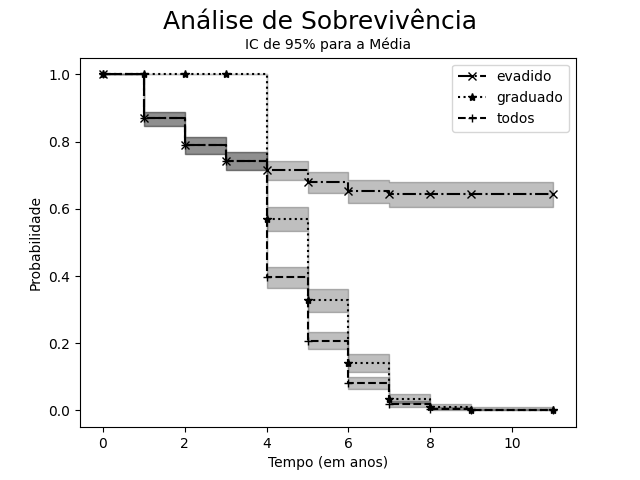
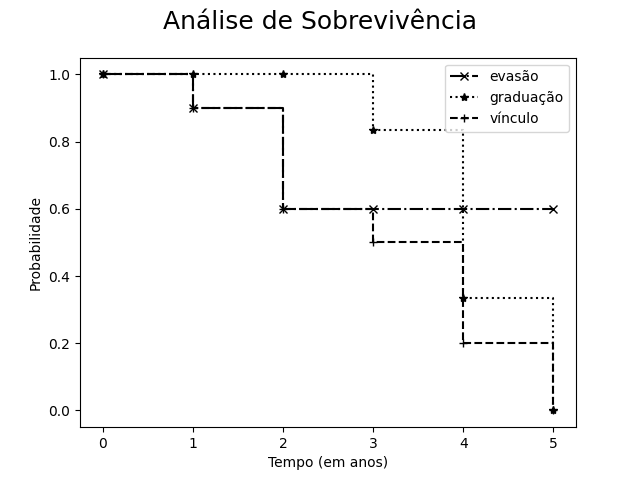
Experimentos

diff --git a/simulation.py b/simulation.py
@@ -18,11 +18,10 @@ def sobrevivencia(time, event_observed, label, title):
         kmf.plot_survival_function(linestyle=linestyles[i], color="black", marker=markers[i], ci_show=False)
         kmf.event_table.to_csv(f"docs/event_table{title}.csv")
 
-
     plt.xlabel('Tempo (em anos)')
     plt.ylabel('Probabilidade')
     plt.suptitle(f"{title}", fontsize=18)
-    plt.title("IC de 95% para a Média", fontsize=10)
+    # plt.title("IC de 95% para a Média", fontsize=10)
     plt.savefig(f"imgs/plot{title}.png")
     plt.show()
     # kmf.plot_cumulative_density(ci_show=False)
@@ -91,13 +90,13 @@ def Simu(quantAlunos, matriz):
             event_evadido.append(0)
 
         # Se ficou Trancado em algum dos estados
-        i = 1
-        while i < len(arr):
-            if arr[i] == arr[i - 1]:  # se estado igual ao estado anterior
-                t += 1
-                tempo_ate_trancado.append(i)
-                break
-            i += 1
+        # i = 1
+        # while i < len(arr):
+        #     if arr[i] == arr[i - 1]:  # se estado igual ao estado anterior
+        #         t += 1
+        #         tempo_ate_trancado.append(i)
+        #         break
+        #     i += 1
 
         # Se ficou Retido em algum dos estados
         count = 0
@@ -108,10 +107,10 @@ def Simu(quantAlunos, matriz):
                 break
             count += 1
 
-    # prob_and_temp("Retido", r, tempo_ate_retido, quantAlunos)
+    prob_and_temp("Retido", r, tempo_ate_retido, quantAlunos)
     # prob_and_temp("Trancado", t, tempo_ate_trancado, quantAlunos)
-    # prob_and_temp("Evadido", e, tempo_ate_evadido, quantAlunos)
-    # prob_and_temp("Graduado", g, tempo_ate_graduado, quantAlunos)
+    prob_and_temp("Evadido", e, tempo_ate_evadido, quantAlunos)
+    prob_and_temp("Graduado", g, tempo_ate_graduado, quantAlunos)
 
     return time, event, event_evadido, event_graduado
 
@@ -191,39 +190,39 @@ quantAlunos = 1000
 
 
 # Simulação Evasão A1
-# time, event, event_evadido, event_graduado = Simu(quantAlunos, 'matrix/matrixPadrao.csv')
-# time20, event_20, event_evadido20, event_graduado20 = Simu(quantAlunos, 'matrix/matrixMenos20EvasaoA1.csv')
-# time40, event_40, event_evadido40, event_graduado40 = Simu(quantAlunos, 'matrix/matrixMenos40EvasaoA1.csv')
-# time60, event_60, event_evadido60, event_graduado60 = Simu(quantAlunos, 'matrix/matrixMenos60EvasaoA1.csv')
-#
-#
-# times = [time, time20, time40, time60]
-# events = [event, event_20, event_40, event_60]
-# labels = ["Padrão", "20% menor", "40% menor", "60% menor"]
-#
-# sobrevivencia(times, events, labels, "Todos: Taxa de Evasão no primeiro ano")
-#
-# events = [event_evadido, event_evadido20, event_evadido40, event_evadido60]
-#
-# sobrevivencia(times, events, labels, "Evadido: Taxa de Evasão no primeiro ano")
-#
-# events = [event_graduado, event_graduado20, event_graduado40, event_graduado60]
-#
-# sobrevivencia(times, events, labels, "Graduado: Taxa de Evasão no primeiro ano")
-#
-#
-# print("logrank")
-# results = logrank_test(time, time20, event, event_20)
-# results.print_summary()
-# print(results.p_value)
-#
-# results = logrank_test(time, time40, event, event_40)
-# results.print_summary()
-# print(results.p_value)
-#
-# results = logrank_test(time, time60, event, event_60)
-# results.print_summary()
-# print(results.p_value)
+time, event, event_evadido, event_graduado = Simu(quantAlunos, 'matrix/matrixPadrao.csv')
+time20, event_20, event_evadido20, event_graduado20 = Simu(quantAlunos, 'matrix/matrixMenos20EvasaoA1.csv')
+time40, event_40, event_evadido40, event_graduado40 = Simu(quantAlunos, 'matrix/matrixMenos40EvasaoA1.csv')
+time60, event_60, event_evadido60, event_graduado60 = Simu(quantAlunos, 'matrix/matrixMenos60EvasaoA1.csv')
+
+
+times = [time, time20, time40, time60]
+events = [event, event_20, event_40, event_60]
+labels = ["Padrão", "20% menor", "40% menor", "60% menor"]
+
+sobrevivencia(times, events, labels, "Todos: Taxa de Evasão no primeiro ano")
+
+events = [event_evadido, event_evadido20, event_evadido40, event_evadido60]
+
+sobrevivencia(times, events, labels, "Evadido: Taxa de Evasão no primeiro ano")
+
+events = [event_graduado, event_graduado20, event_graduado40, event_graduado60]
+
+sobrevivencia(times, events, labels, "Graduado: Taxa de Evasão no primeiro ano")
+
+
+print("logrank")
+results = logrank_test(time, time20, event, event_20)
+results.print_summary()
+print(results.p_value)
+
+results = logrank_test(time, time40, event, event_40)
+results.print_summary()
+print(results.p_value)
+
+results = logrank_test(time, time60, event, event_60)
+results.print_summary()
+print(results.p_value)
 
 
 
@@ -271,9 +270,9 @@ quantAlunos = 1000
 
 
 # Simulação Geral
-time, event, event_evadido, event_graduado = Simu(quantAlunos, 'matrix/matrixBoumiAlterado.csv')
-
-sobrevivencia([time, time, time], [event_evadido, event_graduado, event], ['evadido', 'graduado', 'todos'], "Análise de Sobrevivência")
+# time, event, event_evadido, event_graduado = Simu(quantAlunos, 'matrix/matrixBoumiAlterado.csv')
+#
+# sobrevivencia([time, time, time], [event_evadido, event_graduado, event], ['evasão', 'graduação', 'vínculo'], "Análise de Sobrevivência")
 # sobrevivencia([time], [event_evadido], ['Estudantes'], "Análise de Sobrevivência1")
 # sobrevivencia([time], [event_graduado], ['Estudantes'], "Análise de Sobrevivência1")
 # sobrevivencia([time], [event], ['Estudantes'], "Análise de Sobrevivência2")

diff --git a/generate_mc.py b/generate_mc.py
@@ -195,9 +195,9 @@ A5RtoE = 0.02 * taxaEvasaoR
 A6RtoE = 0.02/2 * taxaEvasaoR
 
 # Próximo estado
-A1toA2 = 1 - A1toA1R - A1toE
+A1toA2 = 1 - A1toA1R - A1toE - 0.06
 A1RtoA2R = 1 - A1RtoE
-A2toA3 = 1 - A2toA2R - A2toE
+A2toA3 = 1 - A2toA2R - A2toE - 0.08
 A2RtoA3R = 1 - A2RtoE
 A3toA4 = 1 - A3toA3R - A3toE
 A3RtoA4R = 1 - A3RtoE
@@ -212,8 +212,8 @@ A6RtoG = 1 - A6RtoE
 states = ['A1', 'A2', 'A3', 'A4', 'A1R', 'A2R', 'A3R', 'A4R', 'A5R', 'A6R', 'G', 'E']
 state = np.array([[1, 0, 0, 0, 0, 0, 0, 0, 0, 0, 0, 0]])
 
-p = [[0.0, A1toA2, 0.0, 0.0, A1toA1R, 0.0, 0.0, 0.0, 0.0, 0.0, 0.0, A1toE],
-     [0.0, 0.0, A2toA3, 0.0, 0.0, A2toA2R, 0.0, 0.0, 0.0, 0.0, 0.0, A2toE],
+p = [[0.0, A1toA2, 0.06, 0.0, A1toA1R, 0.0, 0.0, 0.0, 0.0, 0.0, 0.0, A1toE],
+     [0.0, 0.0, A2toA3, 0.08, 0.0, A2toA2R, 0.0, 0.0, 0.0, 0.0, 0.0, A2toE],
      [0.0, 0.0, 0.0, A3toA4, 0.0, 0.0, A3toA3R, 0.0, 0.0, 0.0, 0.0, A3toE],
      [0.0, 0.0, 0.0, 0.0, 0.0, 0.0, 0.0, A4toA4R, 0.0, 0.0, A4toG, A4toE],
      [0.0, 0.0, 0.0, 0.0, 0.0, A1RtoA2R, 0.0, 0.0, 0.0, 0.0, 0.0, A1RtoE],
